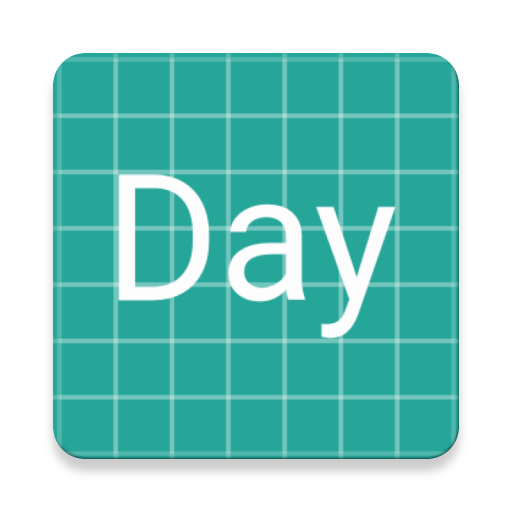
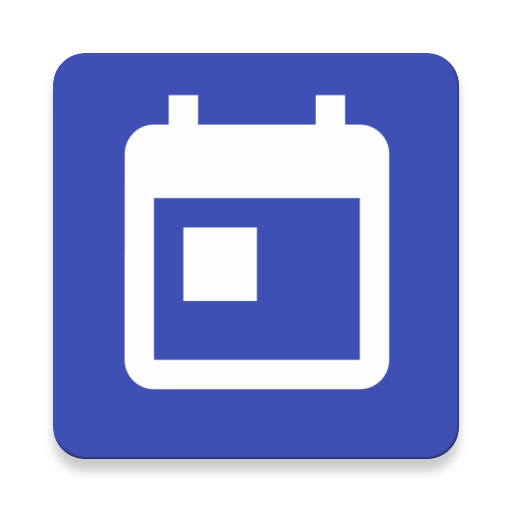
Filters of entries by day and by week done.

diff --git a/app/src/main/java/com/gmail/alexander/taskchronometer/activities/DurationsReportActivity.java b/app/src/main/java/com/gmail/alexander/taskchronometer/activities/DurationsReportActivity.java
@@ -12,13 +12,17 @@ import android.support.v7.widget.LinearLayoutManager;
 import android.support.v7.widget.RecyclerView;
 import android.support.v7.widget.Toolbar;
 import android.util.Log;
+import android.view.Menu;
+import android.view.MenuItem;
 
 import com.gmail.alexander.taskchronometer.R;
 import com.gmail.alexander.taskchronometer.adapters.DurationsRecViewAdapter;
 import com.gmail.alexander.taskchronometer.datatools.DurationsContract;
 
 import java.security.InvalidParameterException;
+import java.util.Date;
 import java.util.GregorianCalendar;
+import java.util.Locale;
 
 public class DurationsReportActivity extends AppCompatActivity implements LoaderManager.LoaderCallbacks<Cursor> {
     public static final String CURRENT_DATE = "CURRENT_DATE";
@@ -46,6 +50,7 @@ public class DurationsReportActivity extends AppCompatActivity implements Loader
         if (actionBar != null) {
             actionBar.setDisplayHomeAsUpEnabled(true);
         }
+        applyFilter();
         RecyclerView recyclerView = findViewById(R.id.td_list);
         recyclerView.setLayoutManager(new LinearLayoutManager(this));
         if (adapter == null) {
@@ -54,6 +59,94 @@ public class DurationsReportActivity extends AppCompatActivity implements Loader
         }
         recyclerView.setAdapter(adapter);
         getSupportLoaderManager().initLoader(LOADER_ID, args, this);
+    }
+
+    @Override
+    public boolean onCreateOptionsMenu(Menu menu) {
+        getMenuInflater().inflate(R.menu.menu_report, menu);
+        return super.onCreateOptionsMenu(menu);
+    }
+
+    @Override
+    public boolean onOptionsItemSelected(MenuItem item) {
+        int id = item.getItemId();
+
+        switch (id) {
+            case R.id.rm_filter_period:
+                displayWeek = !displayWeek;
+                applyFilter();
+                invalidateOptionsMenu();
+                getSupportLoaderManager().restartLoader(LOADER_ID, args, this);
+                return true;
+            case R.id.rm_filter_date:
+                //TODO showDatePickerDialog();
+                return true;
+            case R.id.rm_delete:
+                //TODO showDatePickerDialog(); //Actucal Deleting will be done in onDataSer();
+                return true;
+        }
+        return super.onOptionsItemSelected(item);
+    }
+
+    @Override
+    public boolean onPrepareOptionsMenu(Menu menu) {
+        MenuItem item = menu.findItem(R.id.rm_filter_period);
+        if (item != null) {
+            if (displayWeek) {
+                item.setIcon(R.mipmap.ic_day);
+                item.setTitle(R.string.rm_title_filter_day);
+            } else {
+                item.setIcon(R.mipmap.ic_week);
+                item.setTitle(R.string.rm_title_filter_week);
+            }
+        }
+        return super.onPrepareOptionsMenu(menu);
+    }
+
+    private void applyFilter() {
+        Log.d(TAG, "applyFilter: starts");
+
+        if (displayWeek) {
+          //Shows entries by week.
+
+            Date currentDate= calendar.getTime();// saves current date
+            int dayOfWeek = calendar.get(GregorianCalendar.DAY_OF_WEEK);
+            int weekStart = calendar.getFirstDayOfWeek();
+            Log.d(TAG, "applyFilter: First day of the week: "+ weekStart);
+            Log.d(TAG, "applyFilter: Day of the week: "+ dayOfWeek);
+            Log.d(TAG, "applyFilter: Date is: "+ calendar.getTime());
+            //calculate week start and end dates.
+            calendar.set(GregorianCalendar.DAY_OF_WEEK, weekStart);
+            String startDate = String.format(Locale.US, "%04d-%02d-%02d",
+                    calendar.get(GregorianCalendar.YEAR),
+                    calendar.get(GregorianCalendar.MONTH) + 1,
+                    calendar.get(GregorianCalendar.DAY_OF_MONTH));
+
+            calendar.add(GregorianCalendar.DATE,6); // move forward 6 days to get the last day of the week.
+
+            String endDate = String.format(Locale.US, "%04d-%02d-%02d",
+                    calendar.get(GregorianCalendar.YEAR),
+                    calendar.get(GregorianCalendar.MONTH) + 1,
+                    calendar.get(GregorianCalendar.DAY_OF_MONTH));
+            String[] selectionArgs = new String[]{startDate,endDate};
+
+            //put calendar back to where it was before we started jumping back and forth.
+            calendar.setTime(currentDate);
+            Log.d(TAG, "applyFilter: Start Date is: "+startDate+ "End date: "+ endDate );
+            args.putString(SELECTION_PARAM,"StartDate Between ? AND ?");
+            args.putStringArray(SELECION_ARG_PARAM,selectionArgs);
+
+        } else {
+            //day entries.
+            String startDate = String.format(Locale.US, "%04d-%02d-%02d",
+                    calendar.get(GregorianCalendar.YEAR),
+                    calendar.get(GregorianCalendar.MONTH) + 1,
+                    calendar.get(GregorianCalendar.DAY_OF_MONTH));
+            String[] selectionArgs= new String[]{startDate};
+            Log.d(TAG, "applyFilter: Start date: "+startDate );
+            args.putString(SELECTION_PARAM,"StartDate= ?");
+            args.putStringArray(SELECION_ARG_PARAM,selectionArgs);
+        }
     }
 
     @Override
